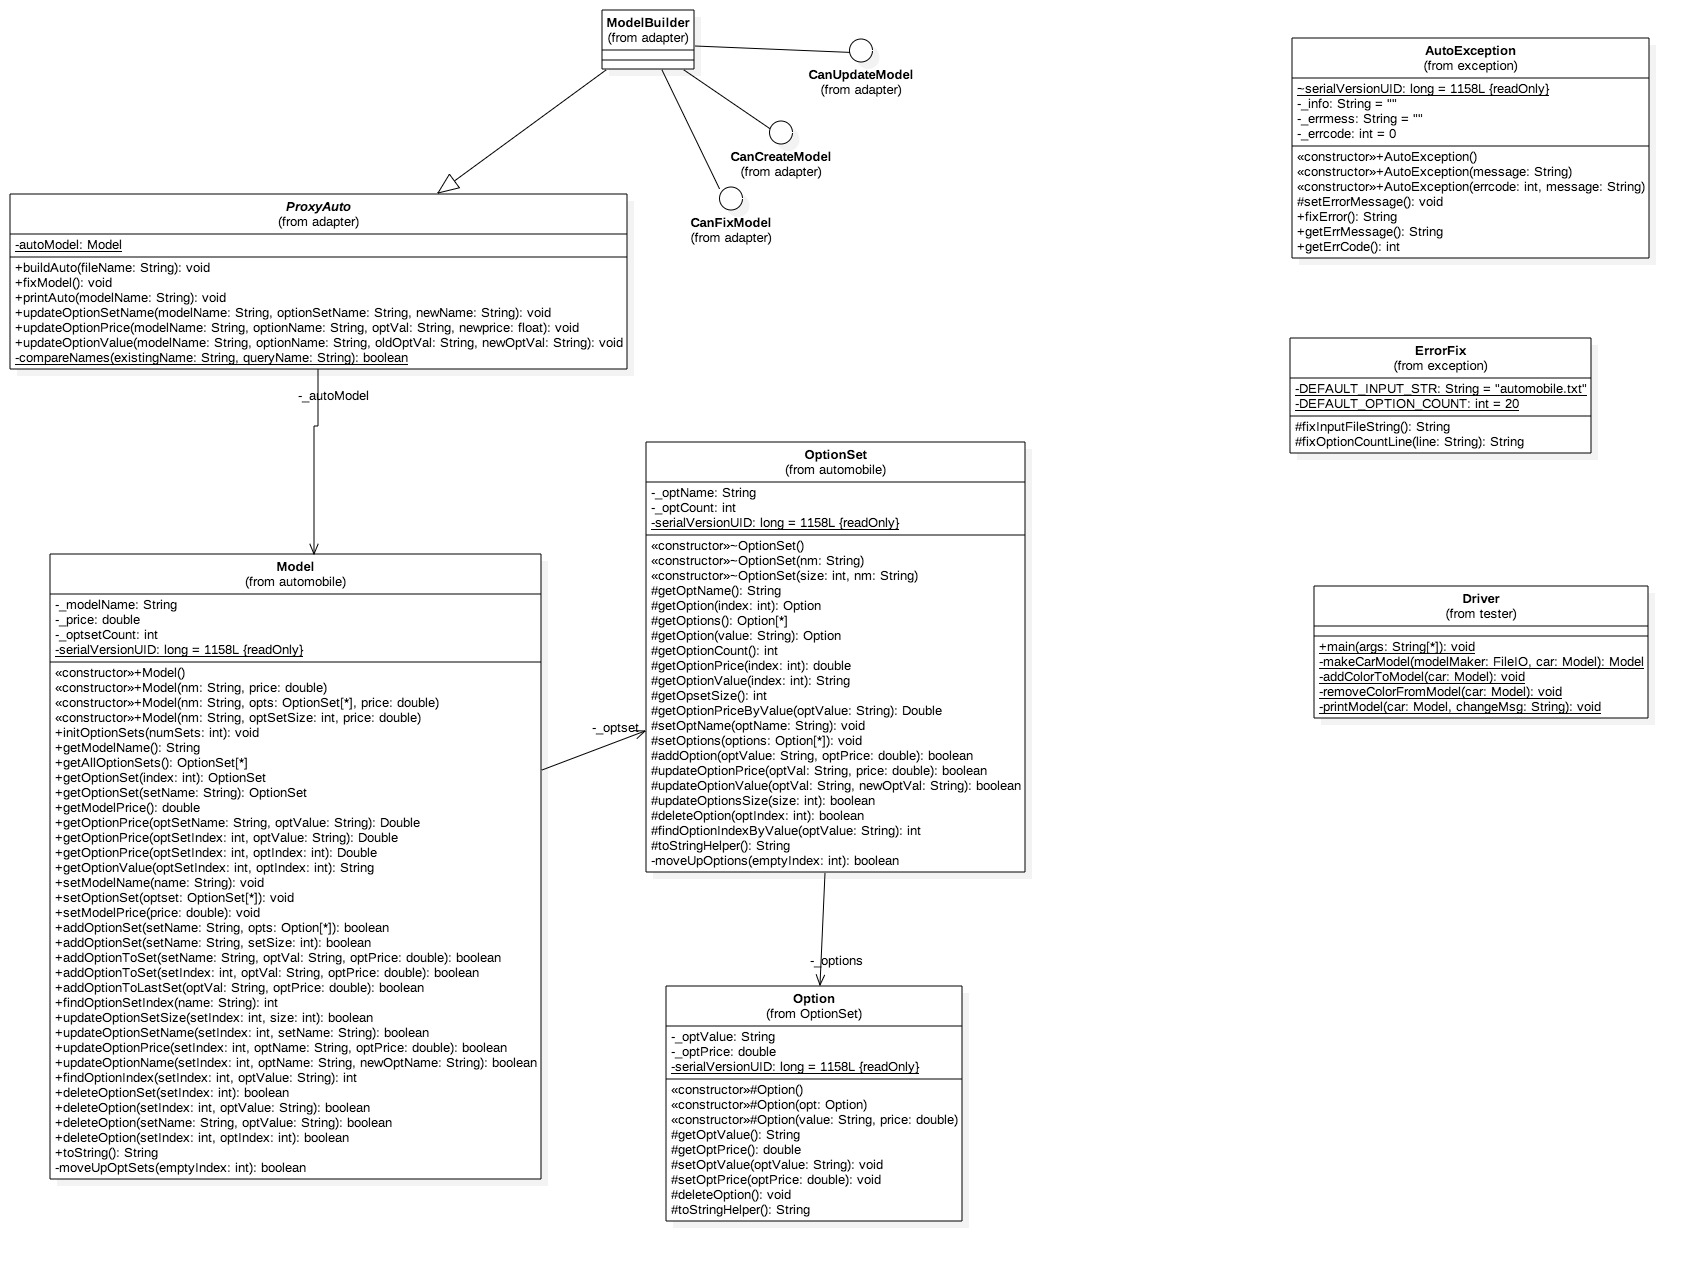
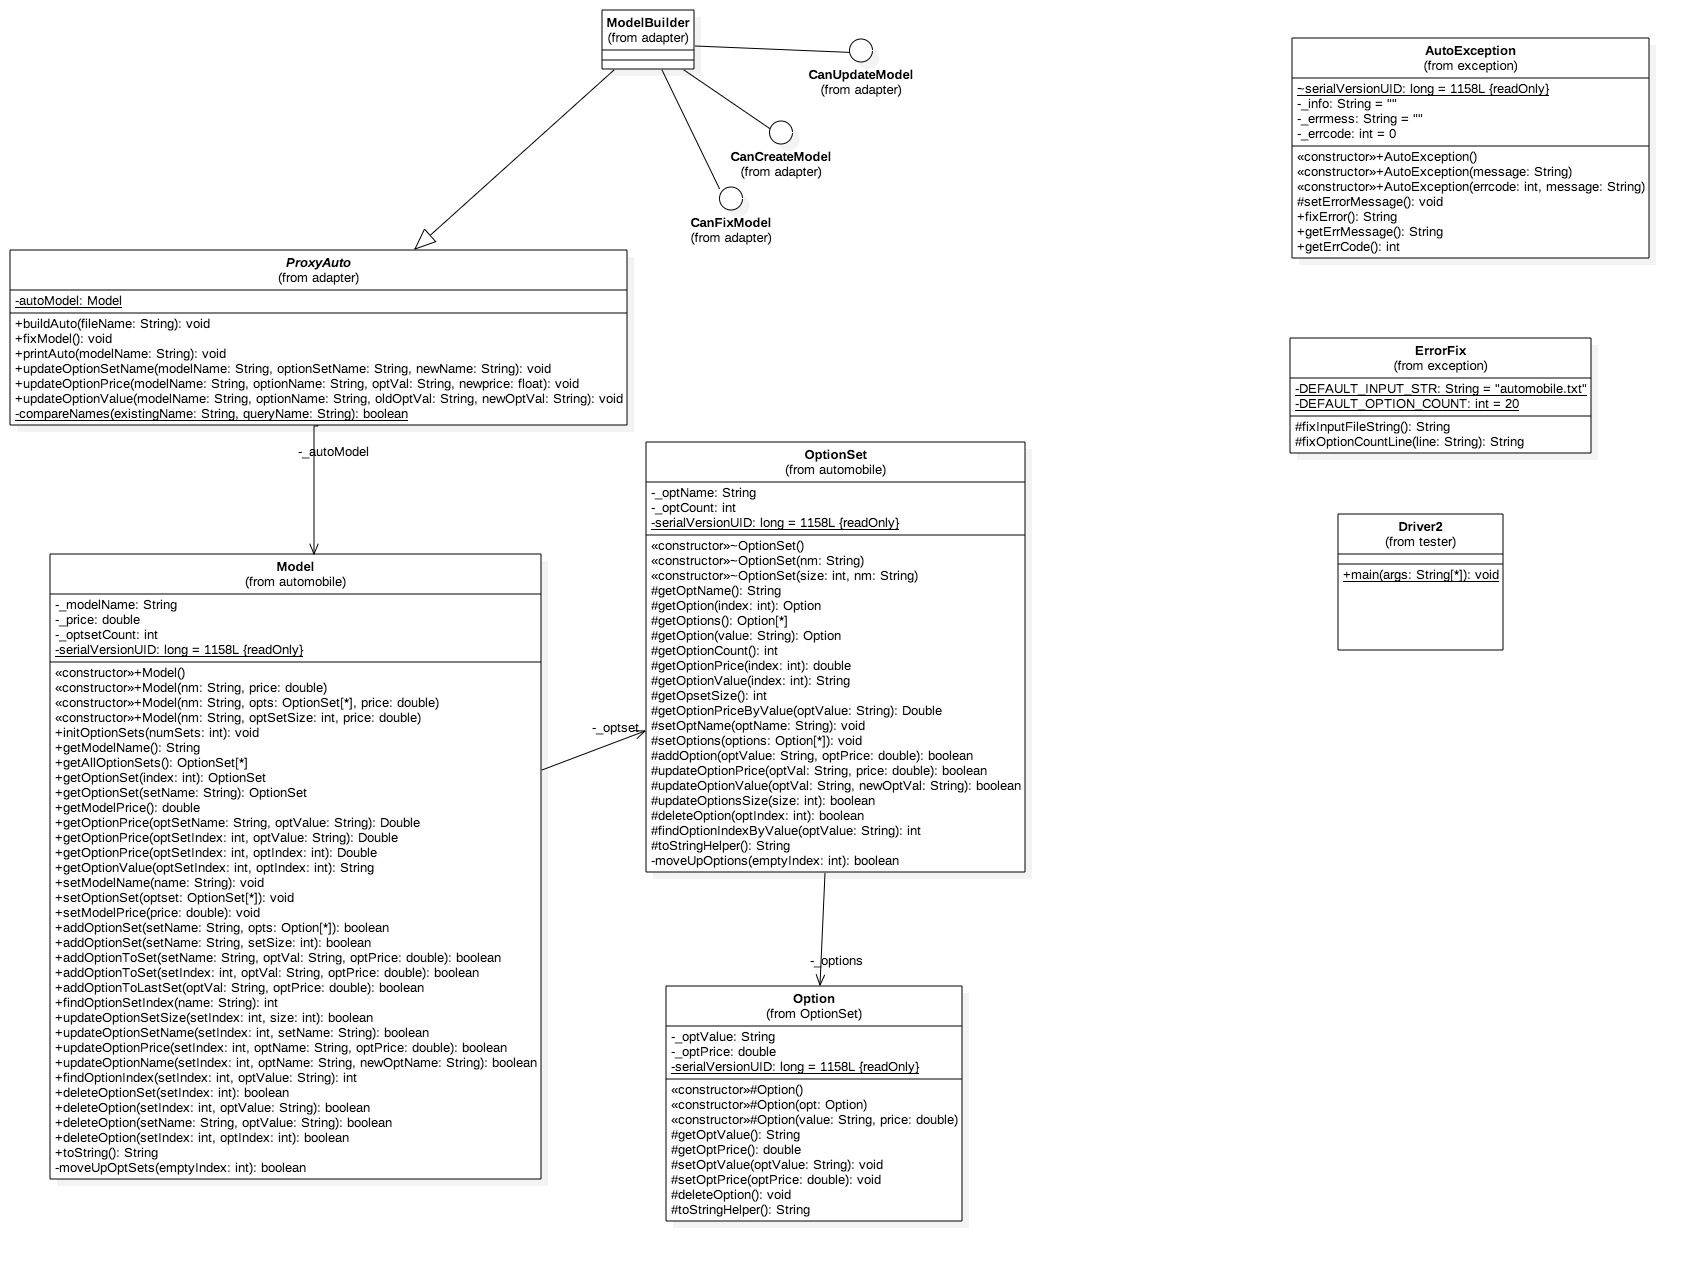
Testing added

Changed region(s): [[0.0, 0.1546, 0.3694, 0.3711], [0.7697, 0.4021, 0.9852, 0.5876], [0.2463, 0.1237, 0.3079, 0.1546]]

diff --git a/src/exception/ErrorFix.java b/src/exception/ErrorFix.java
@@ -3,17 +3,103 @@
  * New for Lab 2
  */
 package exception;
+import java.util.*;
 
 public class ErrorFix {
+	private Scanner input;
 	private static String DEFAULT_INPUT_STR = "automobile.txt";
-	private static int DEFAULT_OPTION_COUNT= 20;
+	//private static int DEFAULT_OPTION_COUNT= 20;
 	protected String fixInputFileString () {
 		return DEFAULT_INPUT_STR;
 	}
-	protected String fixOptionCountLine (String line) {
-		StringBuilder sb = new StringBuilder (line);
+	protected String fixOptionOrSetLine (String line) {
+		String [] splitline = line.split(", ");
+		String [] correctedsplit = new String [2];
+		
+		if (splitline[0].indexOf("set") != -1 || splitline[0].indexOf("Set") != -1){
+			
+			if ((splitline.length < 3) || !(splitline[2].matches("\\d+"))) {
+				correctedsplit [1] = getCorrectedVal(line, ("\\d+"), "Option set not in expected format. Enter number of option values:");
+			}
+			if (splitline.length < 2 || splitline[1].matches("\\d+")) {  //assuming here that an Option set name will not be numeric only
+				correctedsplit [0] = this.getCorrectedVal(line, ".+", "Option set not in expected format. Enter the name for this option set:");
+			}
+			else {
+				correctedsplit[0] = splitline[1];
+			}
+		}
+		else {
+			if ((splitline.length < 3) || !(splitline[2].matches("\\d+(\\.\\d{0,2})?"))) {
+				correctedsplit [1] = getCorrectedVal(line, ("\\d+(\\.\\d{0,2})?"), "Line not in expected format. Enter option price:");
+			}
+			if (splitline.length < 2 || splitline[1].matches("\\d+(\\.\\d{0,2})?")) {  //assuming here that an Option set name will not be numeric only
+				correctedsplit [0] = this.getCorrectedVal(line, ".+", "Line not in expected format. Enter the name for this option: ");
+			}
+			else {
+				correctedsplit[0] = splitline[1];
+			}
+		}
+		
+		StringBuilder sb = new StringBuilder (splitline [0]);
 		sb.append(", ");
-		sb.append(DEFAULT_OPTION_COUNT);
+		sb.append(correctedsplit[0]);
+		sb.append(", ");
+		sb.append(correctedsplit[1]);
 		return sb.toString();
 	}
+	protected String fixNumber (String line) { //code 102061
+		String [] splitline = line.split(", ");
+		StringBuilder sb = new StringBuilder (splitline[0]);
+		String correctedval = "";
+		if (splitline[0].toLowerCase().matches(".+set")) { //option set
+			correctedval = getCorrectedVal (line, "\\d+", "Enter a corrected count for this set of options: "); //regex catches a value with 1 or more digits
+		}
+		else {	//option
+			correctedval = getCorrectedVal(line, "\\d+(\\.\\d{0,2})?", "Enter a corrected price for this option: "); //regex catches a value with a 0-2 digits after the decimal place
+		}
+		sb.append(", ");
+		sb.append(splitline[1]);
+		sb.append(", ");
+		sb.append(correctedval);
+		
+		return sb.toString();
+	}
+	protected String fixOptionSetCount (String line) { //code 102062
+		StringBuilder correctedLine = new StringBuilder (line.split(", ")[0]);	//dump the end of the line
+		correctedLine.append(", ");
+		correctedLine.append(getCorrectedVal(line, "\\d+", "Enter a number for the count of option sets: "));
+		return correctedLine.toString();
+		 
+	}
+	protected String fixModelName (String line) { //code 102063
+		StringBuilder correctedLine = new StringBuilder (line.split(", ")[0]);	//dump the end of the line
+		correctedLine.append(", ");
+		correctedLine.append(getCorrectedVal(line, ".+", "Enter a new for this automobile model: "));
+		return correctedLine.toString();
+	}
+	private String getCorrectedVal(String line, String regex, String query) {
+		String correctedval = "";
+		boolean goodInput = false;
+		input = new Scanner (System.in);
+//		if (input.hasNext()) {
+//			input.next();
+//		}
+		
+		while (!goodInput) {
+			System.out.print ("Line With a problem: ");
+			System.out.println (line);
+			System.out.print (query);
+			correctedval = input.nextLine();
+			if (correctedval.matches(regex)) {
+				goodInput = true;
+			}
+			else {
+				System.out.println ("Please try again.");
+			}
+		}
+		input.close();
+		return correctedval;
+		
+	}
+	
 }

diff --git a/src/util/FileIO.java b/src/util/FileIO.java
@@ -4,13 +4,13 @@
 package util;
 
 import java.io.*;
+
 import automobile.*;
 import exception.*;
 
-public class FileIO {
-	
-	private static final int DEFAULT_GROUP_SZ = 20;//in case an array size is not specified.
+import java.util.*;
 
+public class FileIO {
 	public FileIO() {}
 	
 	public Model buildAutoModelObject(String fileName, Model automodel) throws AutoException {
@@ -68,10 +68,13 @@ public class FileIO {
 		String [] splitLine = line.split(",");
 		trimWhiteSpaceInArray(splitLine);
 
-		try {
-			
 			if (splitLine[0].compareToIgnoreCase("model") == 0) {
+				try {
 				automodel.setModelName(splitLine[1]);
+				}
+				catch (IndexOutOfBoundsException ie) {
+					throw new AutoException (102063, line);
+				}
 			}
 			else if (splitLine[0].compareToIgnoreCase("model price") == 0) {
 				automodel.setModelPrice(Double.parseDouble(splitLine[1]));
@@ -81,31 +84,32 @@ public class FileIO {
 				try {
 					automodel.initOptionSets(Integer.parseInt(splitLine[1]));
 				}
-				catch (Exception e) { //number not there or not an integer
-					automodel.initOptionSets(DEFAULT_GROUP_SZ);
-					System.out.println("Error with count of Option sets" + e.getMessage());
+				catch (NumberFormatException ne) { //number not there or not an integer
+					throw new AutoException (102062, line);
 				}
 			}
 			else if (splitLine[0].compareToIgnoreCase("optionset") == 0) {
-				
-				if (splitLine.length < 3){
+				if (splitLine.length < 3){	//missing something in the optionset line
 					throw new AutoException (10206, line);
 				}
 				try {
 					automodel.addOptionSet(splitLine[1], Integer.parseInt(splitLine[2]));
 				}
-				catch (Exception e) { //number not there or not an integer
-					automodel.addOptionSet(splitLine[1], DEFAULT_GROUP_SZ);
-					System.out.println("Error with count of options" + e.getMessage());
+				catch (NumberFormatException ne) { //number not there or not an integer
+					throw new AutoException (102061, line);
 				}
 			}
 			else if (splitLine[0].compareToIgnoreCase("option") == 0){
-				automodel.addOptionToLastSet(splitLine[1], Double.parseDouble(splitLine[2]));
+				if (splitLine.length < 3){	//missing something in the option line
+					throw new AutoException (10206, line);
+				}
+				try {
+					automodel.addOptionToLastSet(splitLine[1], Double.parseDouble(splitLine[2]));
+				}
+				catch (NumberFormatException ne) {
+					throw new AutoException (102061, line);
+				}
 			}
-		}
-		catch (Exception e) {
-			System.out.println ("Error parsing Model file." + e.getMessage());
-		}
 	}
 	public boolean serializeAutoObject(String fileName, Model automodel) {
 		try{
@@ -123,5 +127,23 @@ public class FileIO {
 		for (int i = 0; i < line.length; i++){
 			line [i] = line[i].trim();
 		}
+	}
+	private int getNumberFromConsole(String query){
+		Scanner in = new Scanner (System.in);
+		boolean goodInput = false;
+		String enteredVal = "";
+		
+		while (!goodInput) {
+			System.out.print (query);
+			enteredVal = in.nextLine();
+			if (enteredVal.matches("/d+")) {
+				goodInput = true;
+			}
+			else {
+				System.out.println ("Please enter only a number.");
+			}
+		}
+		in.close();
+		return Integer.parseInt(enteredVal);
 	}
 }

diff --git a/src/exception/AutoException.java b/src/exception/AutoException.java
@@ -30,9 +30,13 @@ public class AutoException extends Exception{
 							message.append(".");
 							_errmess = message.toString();
 			break;
-			case 10206 :	message.append("No number of options given. Line: ");
-							message.append(_info);
+			case 10206 :	message.append("Line element missing. Line: ");
+							message.append(_info);	
+							_errmess = message.toString();
 			break;
+			case 102061 : 	message.append("Number expected. Line: ");
+							message.append(_info);
+							_errmess = message.toString();
 		}
 	}
 	public String fixError () {
@@ -42,9 +46,14 @@ public class AutoException extends Exception{
 		
 		case 10404 : solution = ef.fixInputFileString();
 		break;
-		case 10206 : solution = ef.fixOptionCountLine(_info);
+		case 10206 : solution = ef.fixOptionOrSetLine(_info);
 		break;
-		
+		case 102061 : solution = ef.fixNumber(_info);
+		break;
+		case 102062 :solution = ef.fixOptionSetCount(_info);
+		break;
+		case 102063 : solution = ef.fixModelName(_info);
+		break;
 		}
 		return solution;
 	}
@@ -60,4 +69,8 @@ public class AutoException extends Exception{
 
 /*Errors so far:
 10404 file not found
+10206 missing element in line --used for both Optionset and Option lines 
+102061 number not in correct format --used for both Optionset and Option lines
+102062 option set count not in correct format
+102063 model name missing
 */

diff --git a/src/tester/Driver2.java b/src/tester/Driver2.java
@@ -2,12 +2,35 @@
  * CIS 35B Lab 2
  */
 package tester;
+import adapter.*;
 
 public class Driver2 {
 
 	public static void main(String[] args) {
-		// TODO Auto-generated method stub
-
+		testApi();
+		testErrorHandling();
+	}
+	
+	private static void testApi (){
+		CanCreateModel car1 = new ModelBuilder();
+		car1.buildAuto("automobile.txt");
+		System.out.println("Loaded by buildAuto and printed by printAuto:");
+		car1.printAuto("Ford Focus Wagon ZTW");
+		CanUpdateModel car2 = new ModelBuilder ();
+		car2.updateOptionSetName("Ford Focus Wagon ZTW", "Transmission", "Driver Transmission");
+		car2.updateOptionValue("Ford Focus Wagon ZTW", "Color", "Cloud 9 White Clearcoat", "Blinding White Clearcoat");
+		System.out.println ("----------");
+		System.out.println("Transmission option name changed and Color.Cloud 9 White Cloearcoat value changed");
+		car1.printAuto("Ford Focus Wagon ZTW");
+		car1.deleteAuto("Ford Focus Wagon ZTW");
+	}
+	private static void testErrorHandling ()
+	{
+		CanCreateModel car1 = new ModelBuilder();
+		car1.buildAuto("anautomobile.txt");
+		car1.deleteAuto("Ford Focus Wagon ZTW");
+		car1.buildAuto("broken_automobile.txt");
+		
 	}
 
 }

diff --git a/src/adapter/ProxyAuto.java b/src/adapter/ProxyAuto.java
@@ -14,6 +14,9 @@ public abstract class ProxyAuto {
 	public void buildAuto(String fileName) { 
 		FileIO builder = new FileIO ();
 			try {
+				if (_autoModel == null){	
+					_autoModel = new Model ();
+				}
 				_autoModel = builder.buildAutoModelObject(fileName, _autoModel);
 			}
 			catch (AutoException ae){
@@ -24,9 +27,6 @@ public abstract class ProxyAuto {
 				catch (AutoException e){
 					System.out.print ("Could not resolve error " + ae.getErrMessage());
 				}
-			}
-			finally {
-				
 			}
 	}
 	public void fixModel() {/*we'll put user-interaction or pre-determined business rule action in here later*/}
@@ -68,6 +68,12 @@ public abstract class ProxyAuto {
 			}
 		}
 	}
+	public void deleteAuto (String modelName) {
+		if (compareNames (_autoModel.getModelName(), modelName)) {
+			_autoModel = null;
+		}
+	}
+	
 	//helper. This may be modified in the future to become findModel ().
 	private static boolean compareNames (String existingName, String queryName)
 	{

diff --git a/src/automobile/Model.java b/src/automobile/Model.java
@@ -40,6 +40,8 @@ public class Model implements Serializable{
 	
 	public OptionSet getOptionSet(int index) {return this._optset[index];}
 	
+	public int getOptionSetSize () {return this._optset.length;}
+	
 	public OptionSet getOptionSet (String setName) {
 		int setIndex = findOptionSetIndex(setName);
 		if (setIndex > -1) {

diff --git a/src/adapter/CanCreateModel.java b/src/adapter/CanCreateModel.java
@@ -6,5 +6,6 @@ package adapter;
 public interface CanCreateModel {
 	public void buildAuto(String fileName);
 	public void printAuto(String modelName);
+	public void deleteAuto(String modelName);
 }
 
